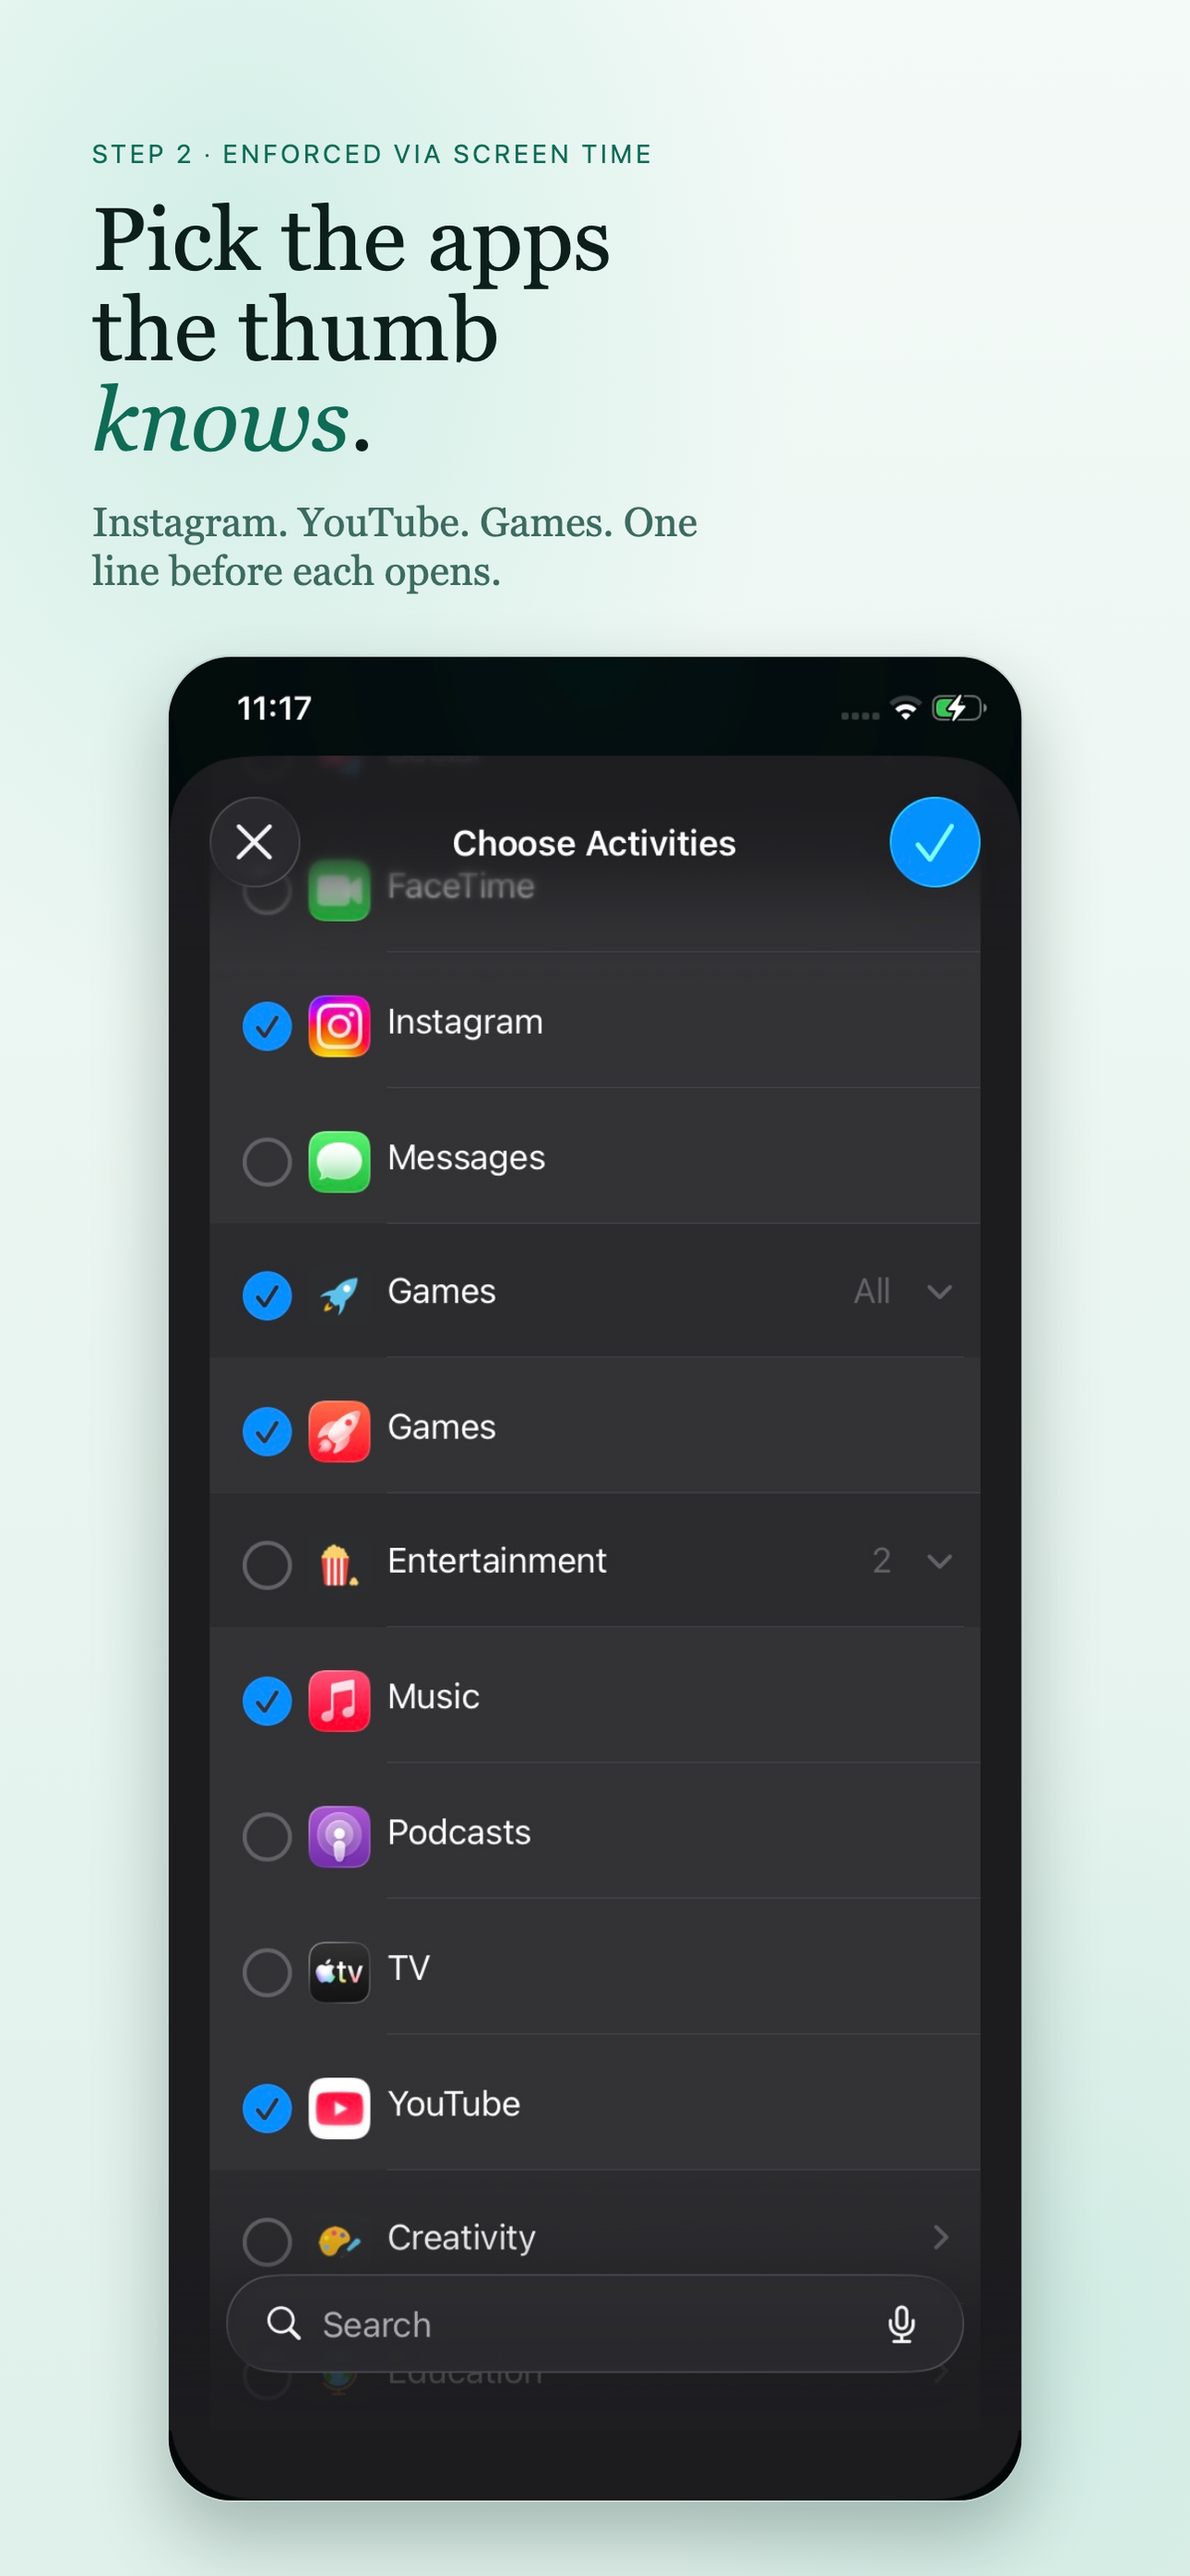
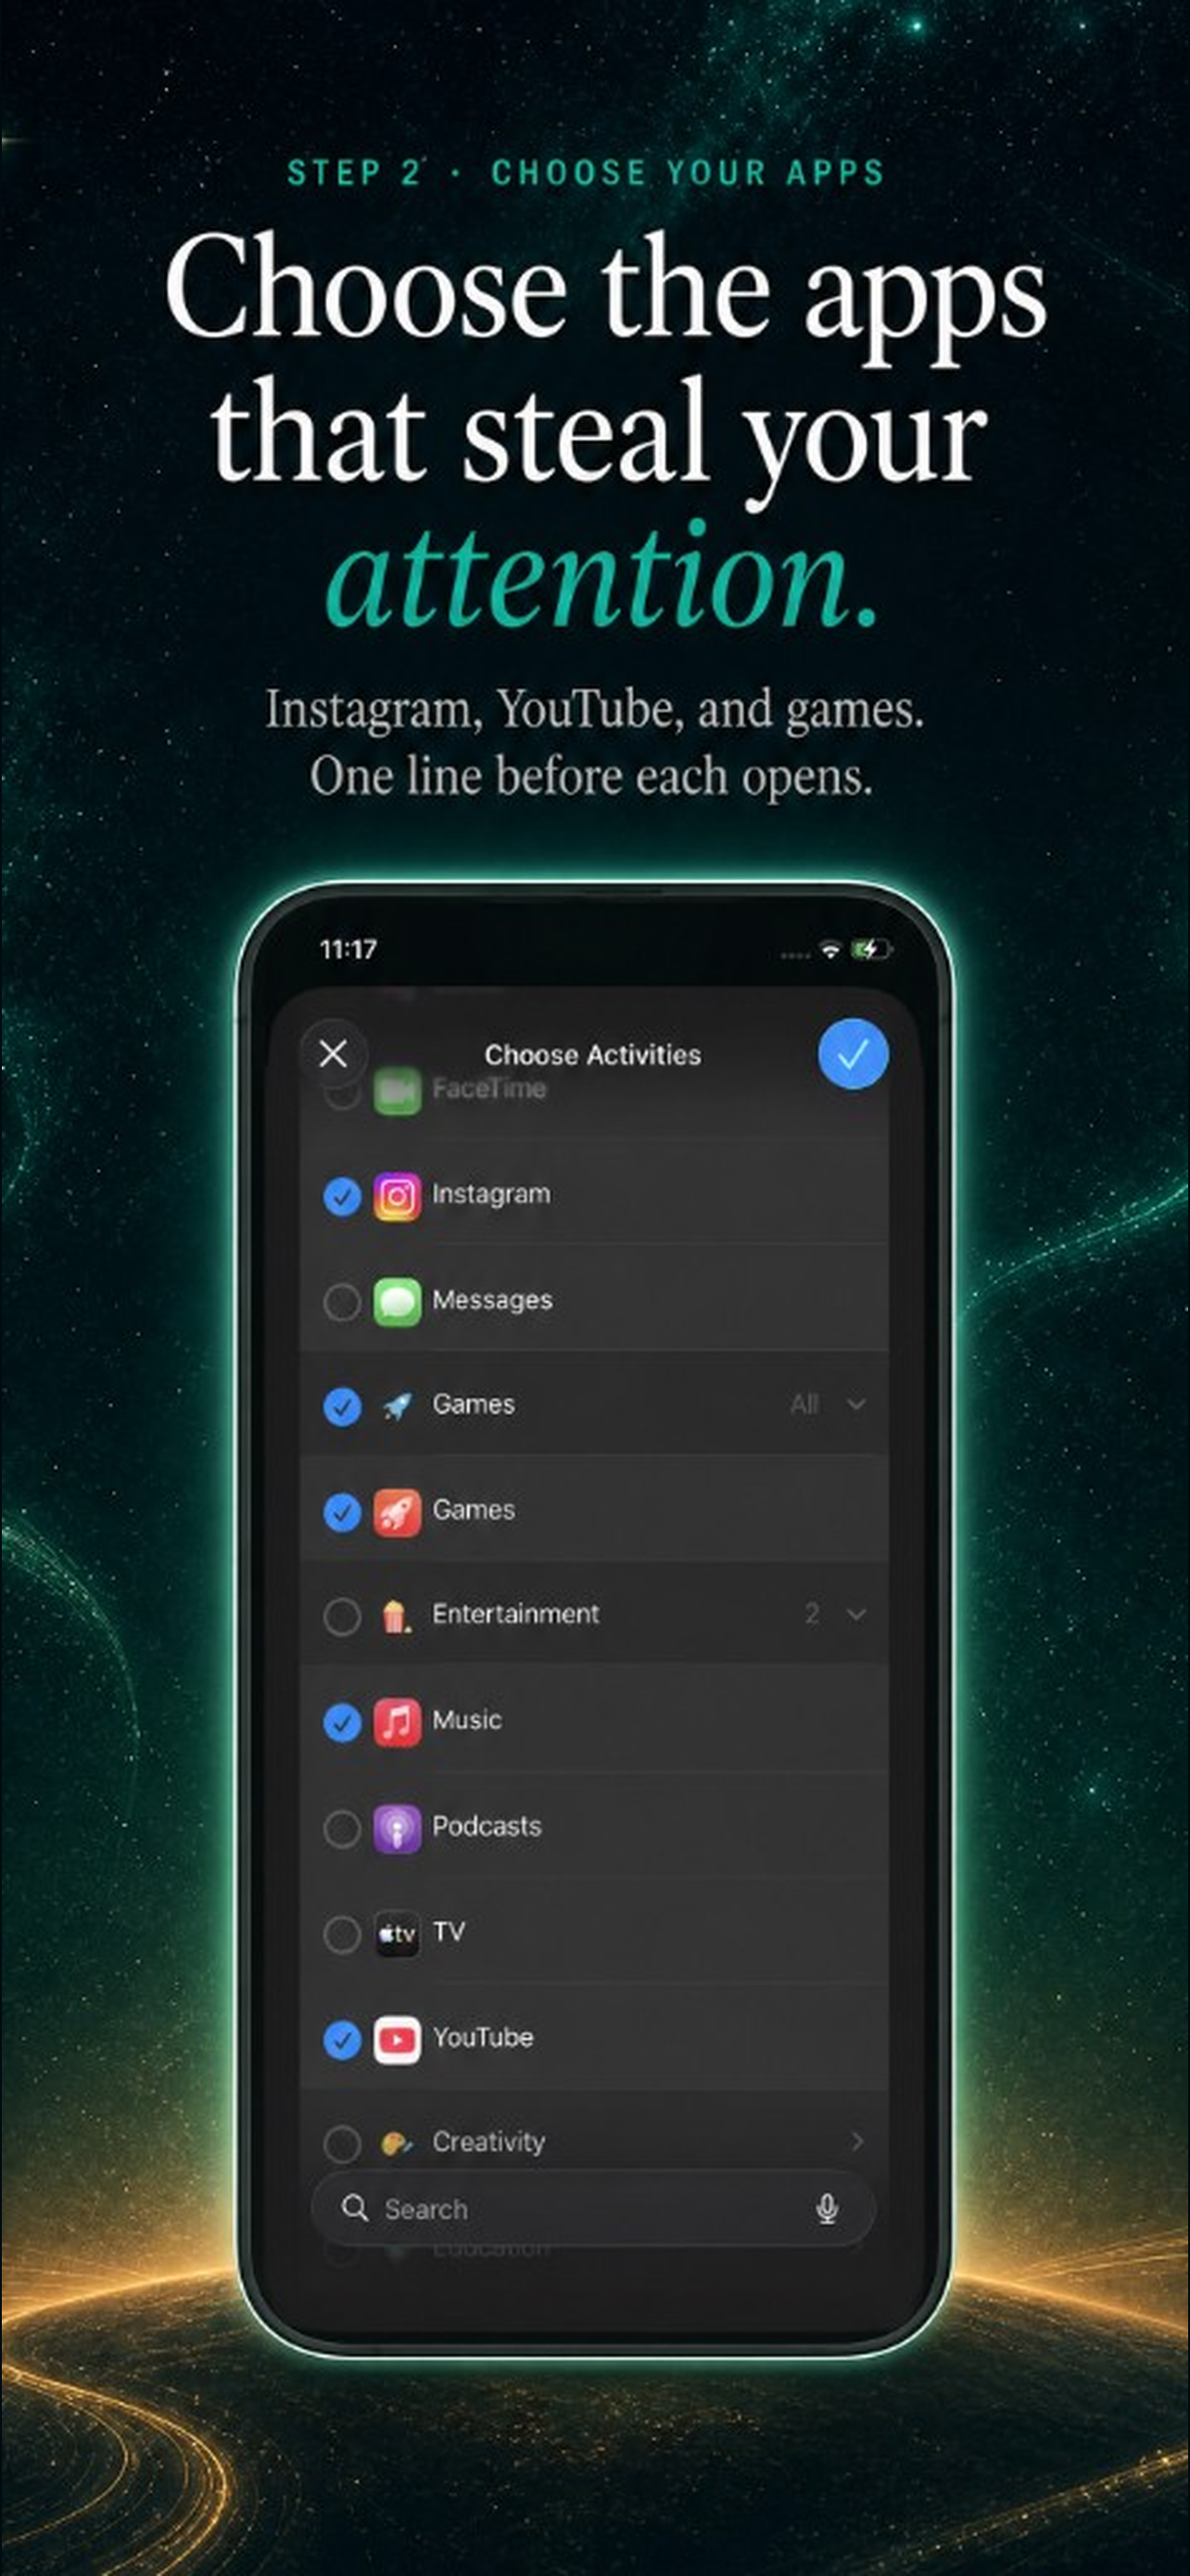
Finalize cosmic ASC screenshots at 6.5-inch size
Fit new story-style steps 1-3 to 1284x2778 without cropping, matching the hero theme.

diff --git a/marketing/appstore/build-assets.py b/marketing/appstore/build-assets.py
@@ -56,14 +56,20 @@ def build_screenshot(
     out_file = out_folder / out_name
 
     if theme == "dark":
-        bg = "radial-gradient(80% 45% at 20% 10%, rgba(85,188,168,0.28), transparent 70%), radial-gradient(60% 40% at 80% 80%, rgba(95,172,155,0.20), transparent 72%), linear-gradient(180deg, #071b19 0%, #051412 100%)"
-        text_color = "#e9f2ef"
-        kicker_color = "#66d6be"
-        h1_color = "#e9f2ef"
-        em_color = "#66d6be"
-        sub_color = "#bfd5cf"
-        border = "2px solid rgba(190,245,234,0.30)"
-        shadow = "0 38px 80px rgba(0,0,0,0.40)"
+        # Match the cosmic hero: deep teal-black, nebula, sunrise glow
+        bg = (
+            "radial-gradient(120% 55% at 50% -5%, rgba(40, 180, 160, 0.38), transparent 58%),"
+            "radial-gradient(90% 40% at 50% 108%, rgba(255, 190, 70, 0.42), transparent 58%),"
+            "radial-gradient(40% 25% at 18% 22%, rgba(90, 220, 200, 0.16), transparent 70%),"
+            "linear-gradient(180deg, #021716 0%, #000d0c 52%, #020808 100%)"
+        )
+        text_color = "#f4fffb"
+        kicker_color = "#4ef0d4"
+        h1_color = "#ffffff"
+        em_color = "#4ef0d4"
+        sub_color = "rgba(244, 255, 251, 0.78)"
+        border = "2px solid rgba(78, 240, 212, 0.22)"
+        shadow = "0 38px 90px rgba(0, 0, 0, 0.55)"
     else:
         bg = "radial-gradient(80% 50% at 20% 10%, rgba(94,200,176,0.22), transparent 60%), radial-gradient(60% 40% at 90% 90%, rgba(94,200,176,0.12), transparent 60%), linear-gradient(180deg, #f4faf7 0%, #dff0ea 100%)"
         text_color = "#1a2e2a"
@@ -73,6 +79,25 @@ def build_screenshot(
         sub_color = "#3d6b60"
         border = "2px solid rgba(12,36,30,0.12)"
         shadow = "0 38px 80px rgba(12,36,30,0.28)"
+
+    stars_css = ""
+    if theme == "dark":
+        stars_css = """
+    body::before {
+      content: "";
+      position: absolute;
+      inset: 0;
+      pointer-events: none;
+      background-image:
+        radial-gradient(1.5px 1.5px at 12% 18%, rgba(255,255,255,.55) 50%, transparent 51%),
+        radial-gradient(1.5px 1.5px at 78% 12%, rgba(255,255,255,.45) 50%, transparent 51%),
+        radial-gradient(1px 1px at 88% 28%, rgba(255,255,255,.4) 50%, transparent 51%),
+        radial-gradient(1.5px 1.5px at 22% 38%, rgba(255,255,255,.35) 50%, transparent 51%),
+        radial-gradient(1px 1px at 64% 22%, rgba(255,255,255,.5) 50%, transparent 51%),
+        radial-gradient(1px 1px at 40% 14%, rgba(255,255,255,.4) 50%, transparent 51%),
+        radial-gradient(1.5px 1.5px at 8% 72%, rgba(255,255,255,.28) 50%, transparent 51%),
+        radial-gradient(1px 1px at 92% 64%, rgba(255,255,255,.32) 50%, transparent 51%);
+    }"""
 
     html = f"""<!doctype html>
 <html>
@@ -91,6 +116,7 @@ def build_screenshot(
       background: {bg};
       position: relative;
     }}
+    {stars_css}
     .title-wrap {{
       position: absolute;
       top: 150px;
@@ -185,10 +211,11 @@ if __name__ == "__main__":
     import argparse
 
     parser = argparse.ArgumentParser()
-    parser.add_argument("--theme", choices=["light", "dark"], default="light")
+    parser.add_argument("--theme", choices=["light", "dark"], default="dark")
+    parser.add_argument("--out-dir", default="")
     args = parser.parse_args()
 
-    out_dir = f"out-{args.theme}"
+    out_dir = args.out_dir or ("out" if args.theme == "dark" else f"out-{args.theme}")
 
     for s in SHOTS:
         out = build_screenshot(
